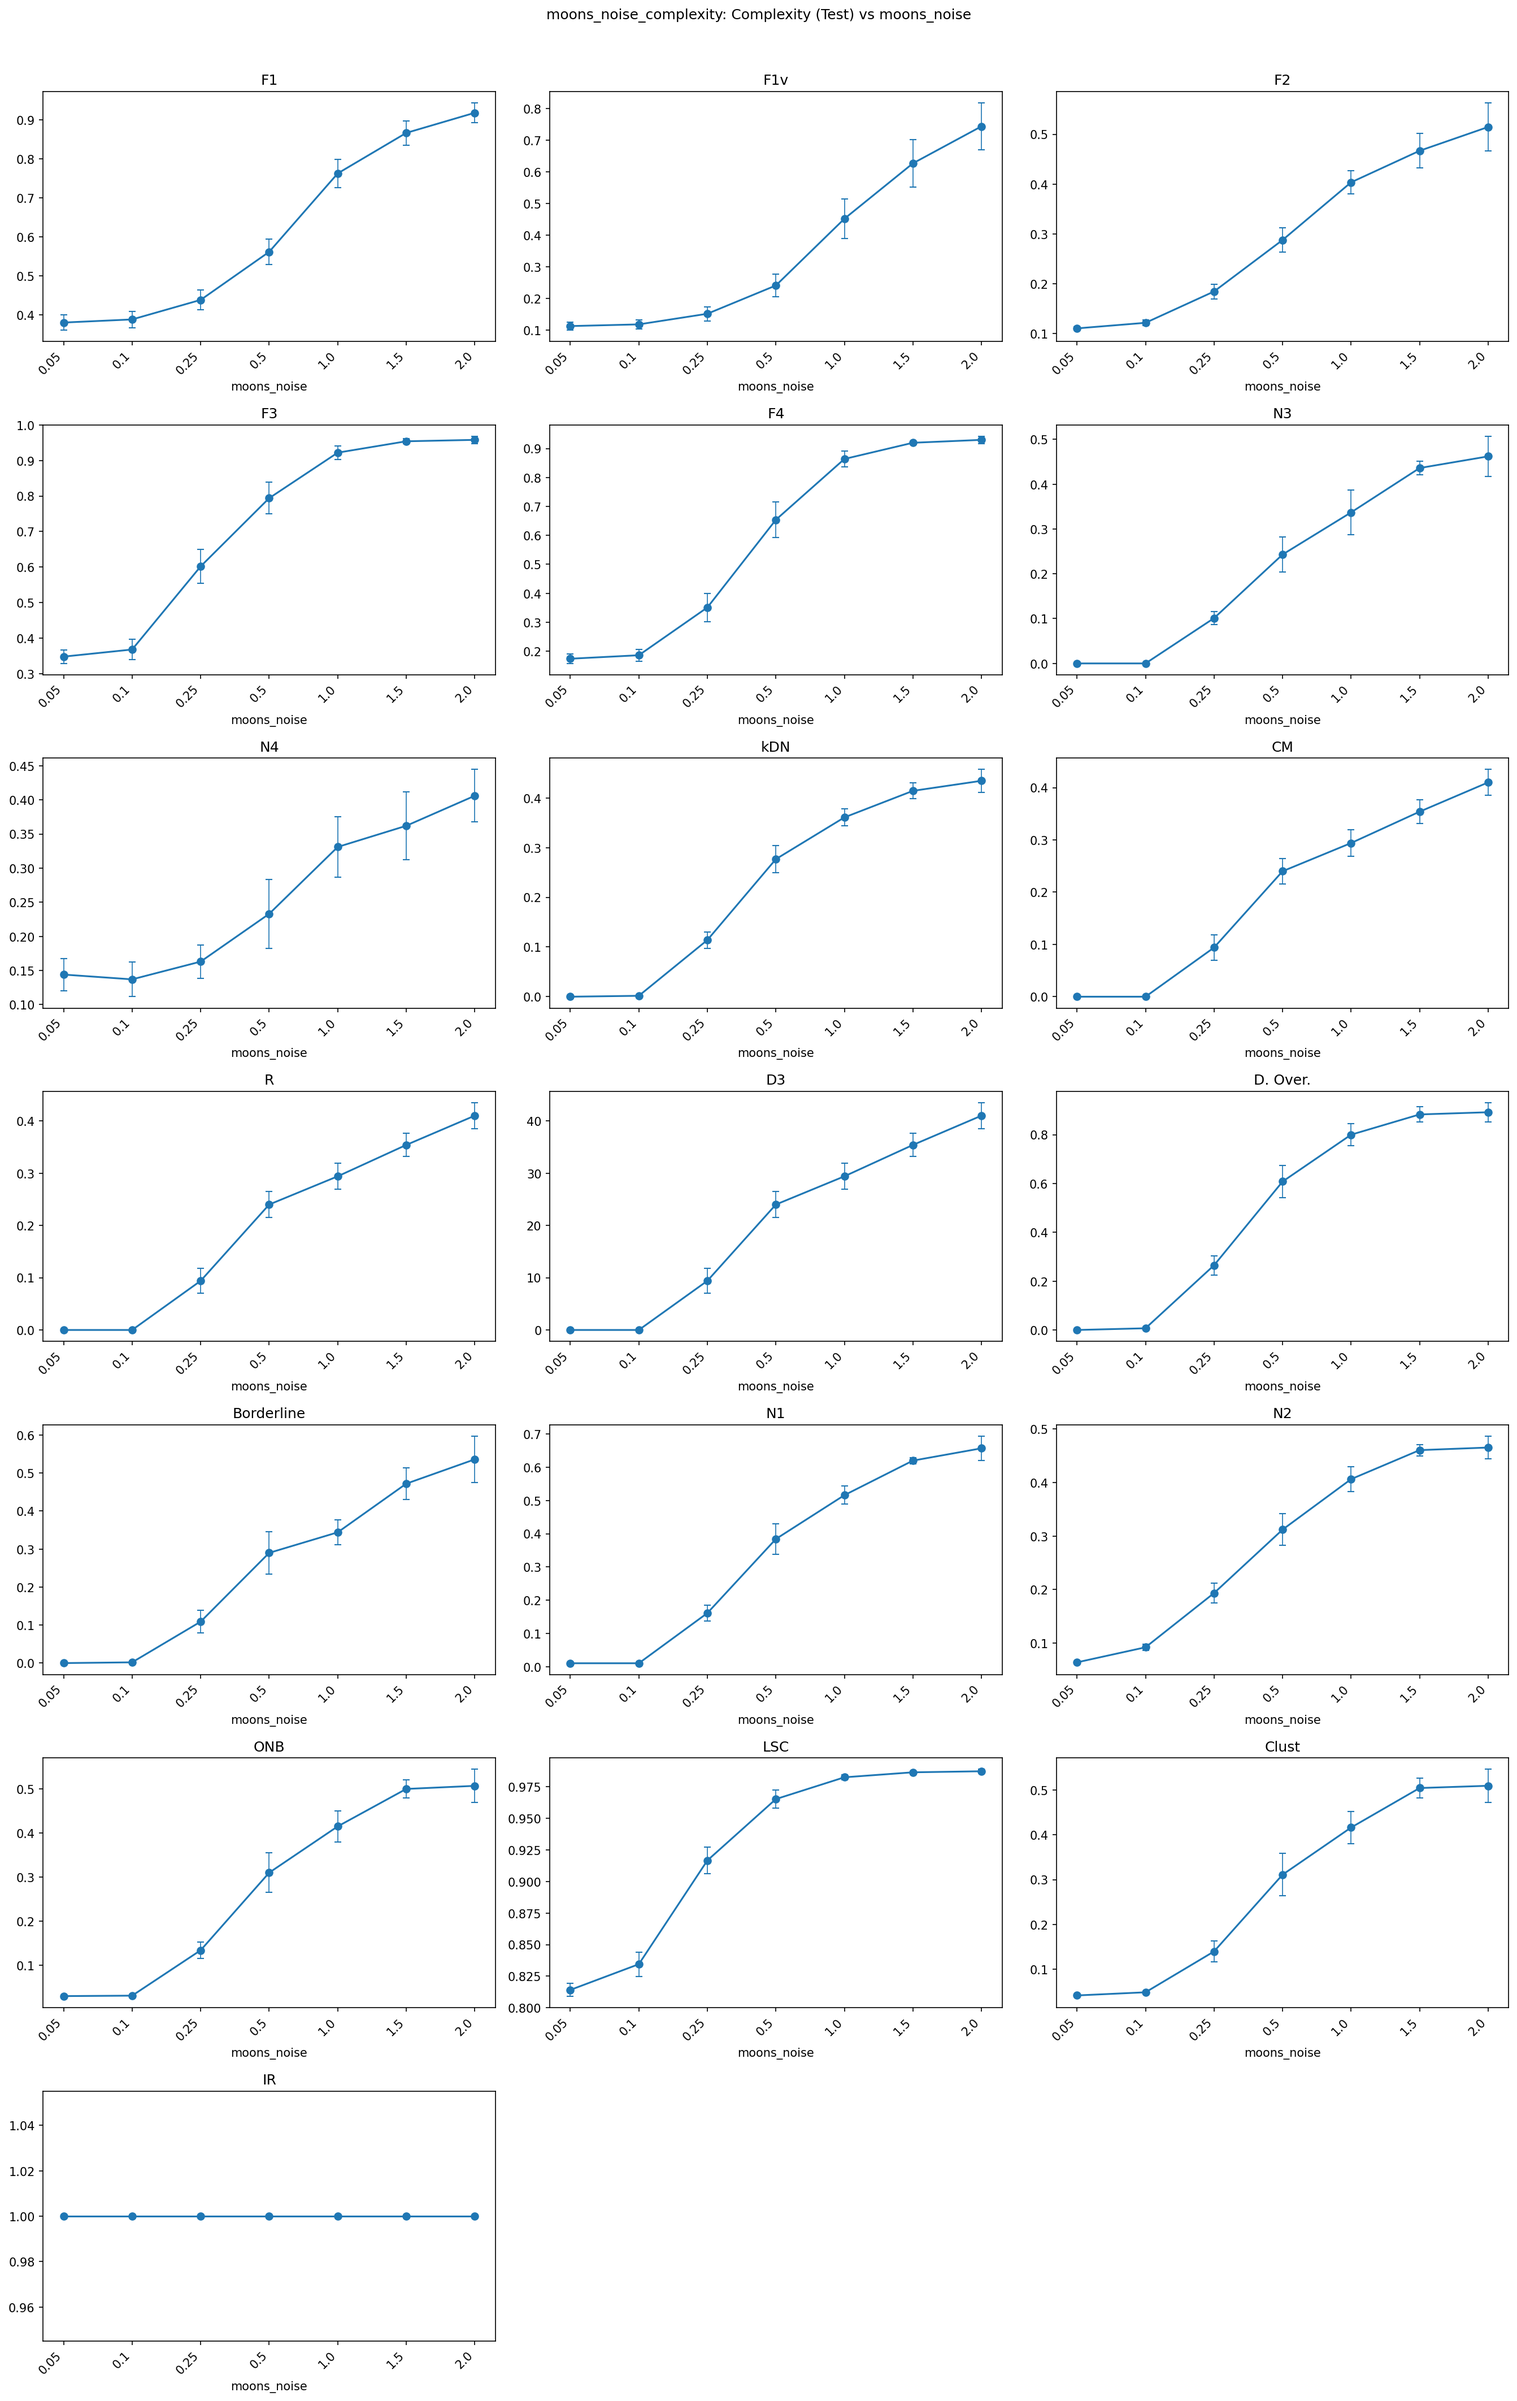
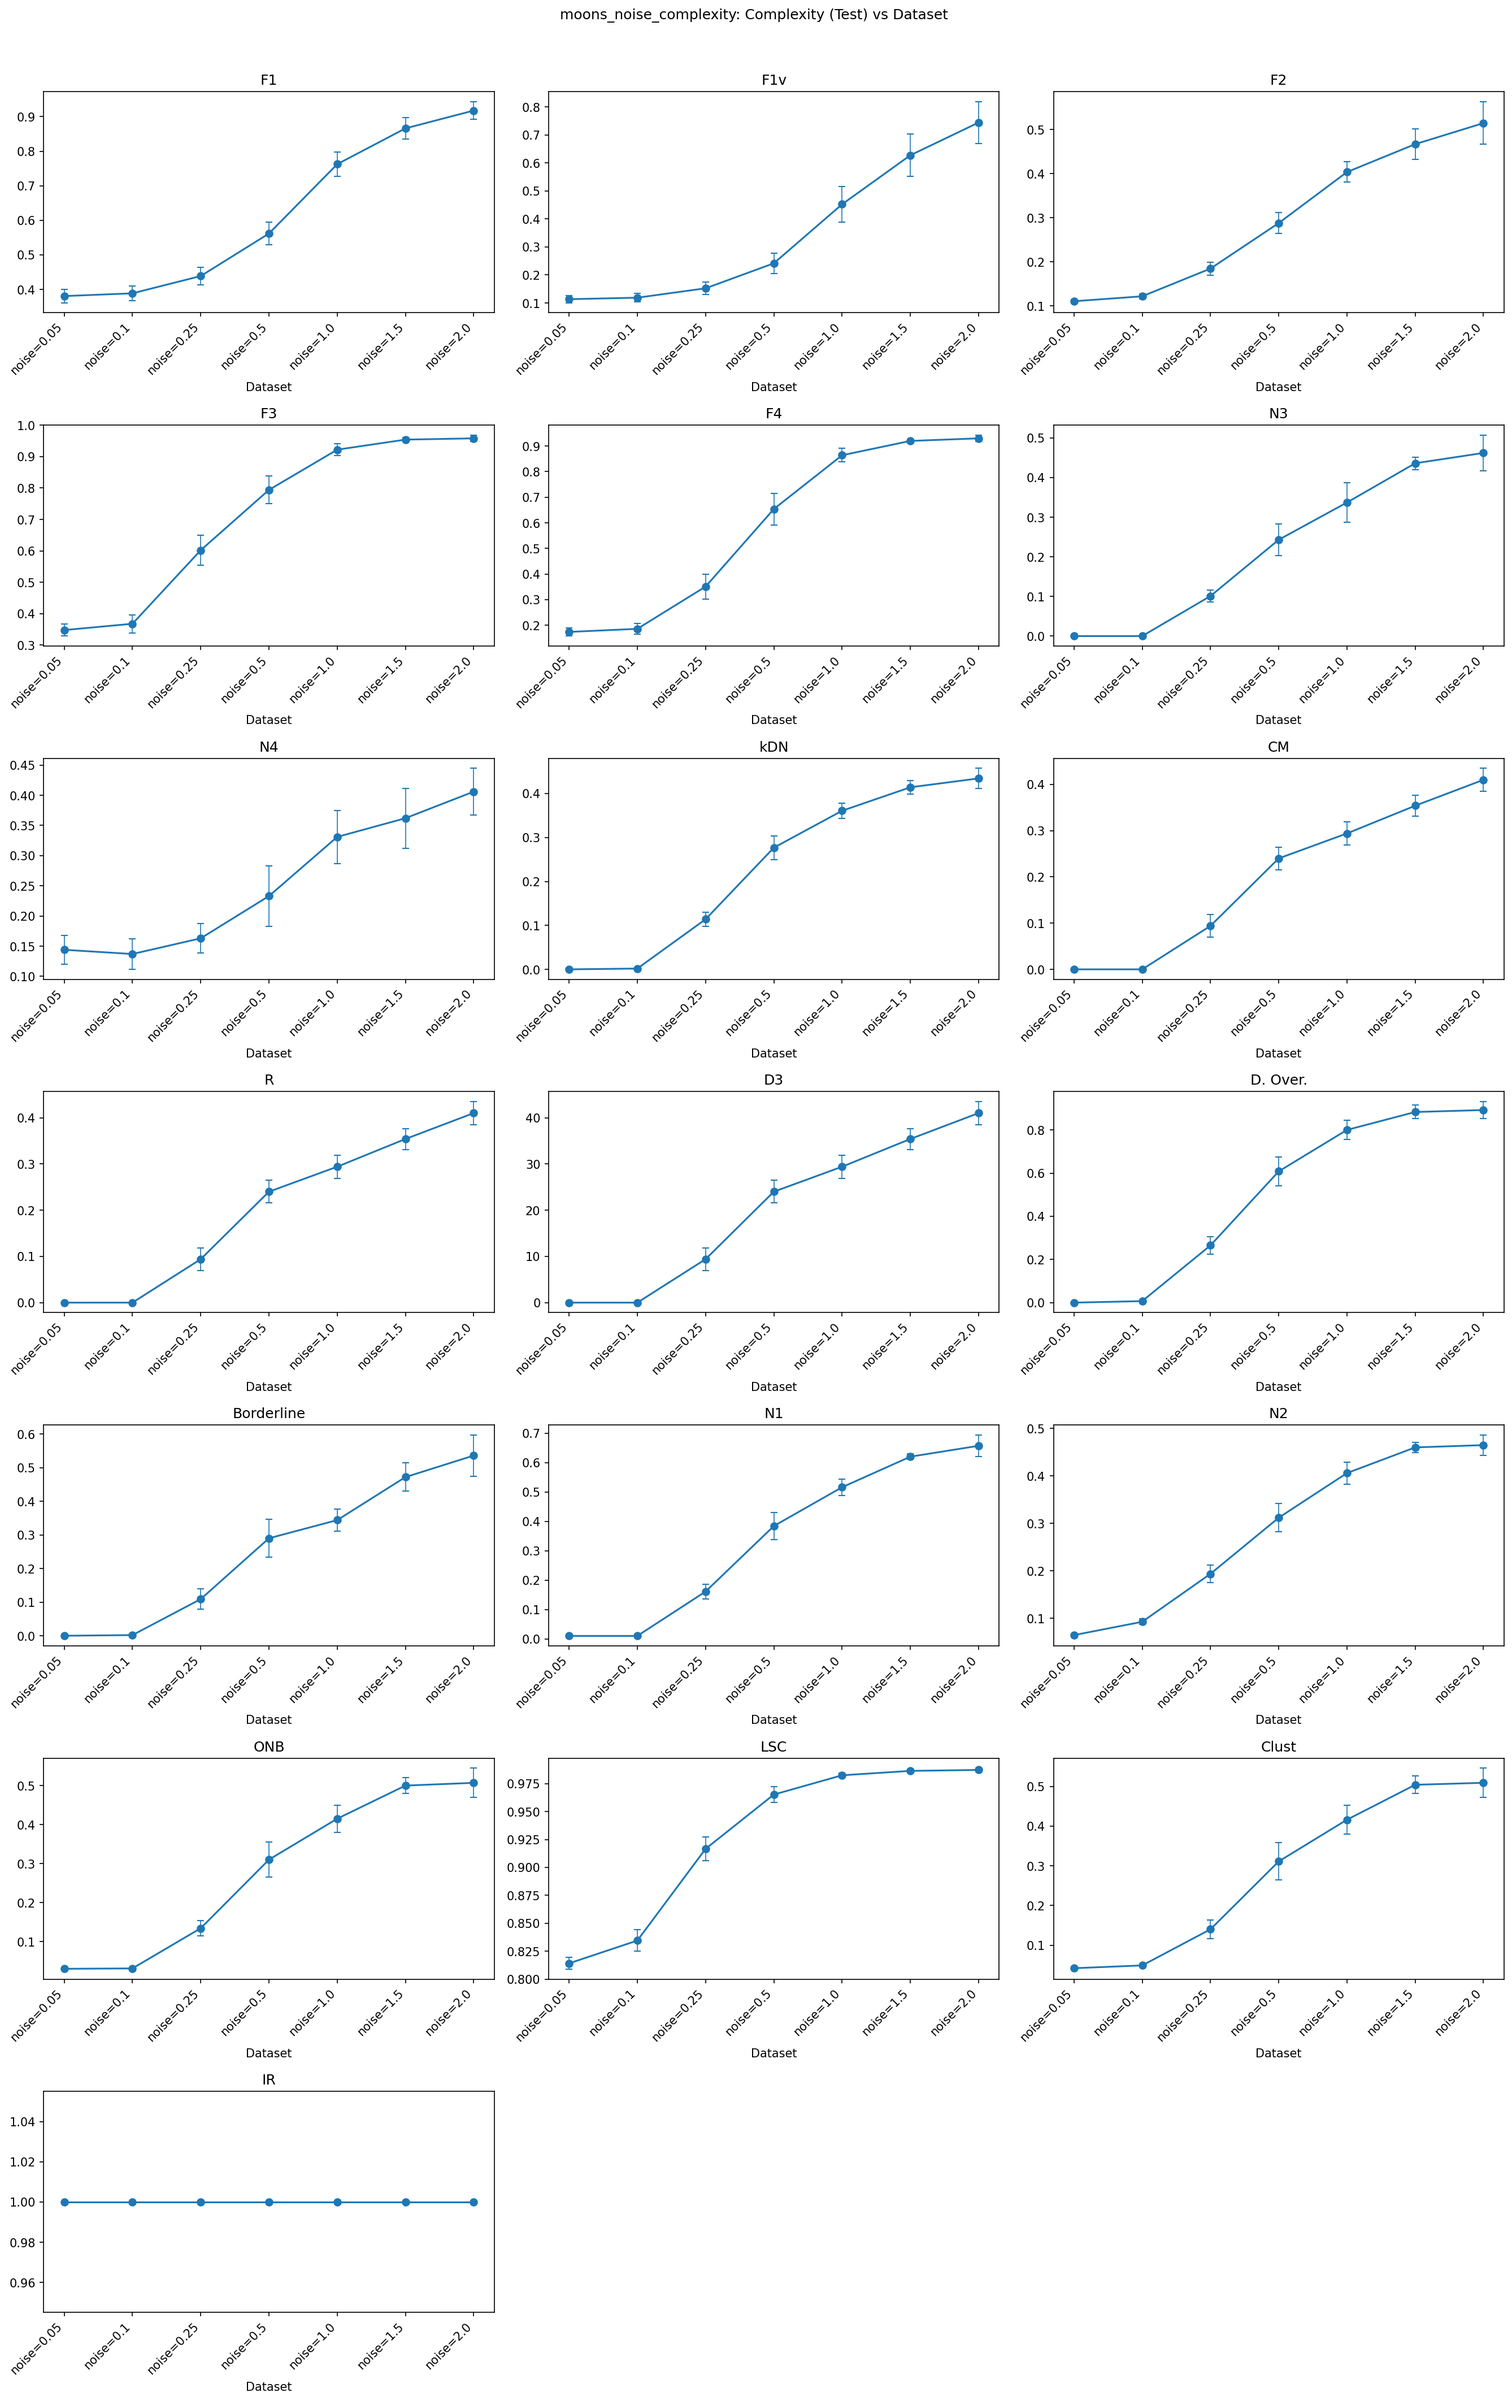
moons new format

diff --git a/data_complexity/experiments/pipeline/runs-complexity-vs-clfs/moons/complexity_only/moons_noise_only_complexity.py b/data_complexity/experiments/pipeline/runs-complexity-vs-clfs/moons/complexity_only/moons_noise_only_complexity.py
@@ -11,22 +11,21 @@ from data_complexity.experiments.pipeline import (
     RunMode,
 )
 
-# Configure experiment
-config = ExperimentConfig(
-    dataset=DatasetSpec(
-        dataset_type="Moons",
-        fixed_params={
+fixed_params={
             "num_samples": 400,
             "train_size": 0.5,
             # "moons_noise": 0.1,
             "equal_test": True, # Ensure test set is balanced for fair evaluation of imbalance effects
-            },
-    ),
-    vary_parameter=ParameterSpec(
-        name="moons_noise",
-        values=[0.05, 0.1, 0.25, 0.5, 1.0, 1.5, 2.0],
-        label_format="scale={value}",
-    ),
+            }
+datasets = []
+for moons_noise in [0.05, 0.1, 0.25, 0.5, 1.0, 1.5, 2.0]:
+    dataset_params = fixed_params.copy()
+    dataset_params["moons_noise"] = moons_noise
+    datasets.append(DatasetSpec("Moons", dataset_params, label=f"noise={moons_noise}"))
+
+# Configure experiment
+config = ExperimentConfig(
+    datasets=datasets,
     name="moons_noise_complexity",
     run_mode=RunMode.COMPLEXITY_ONLY,
 )
